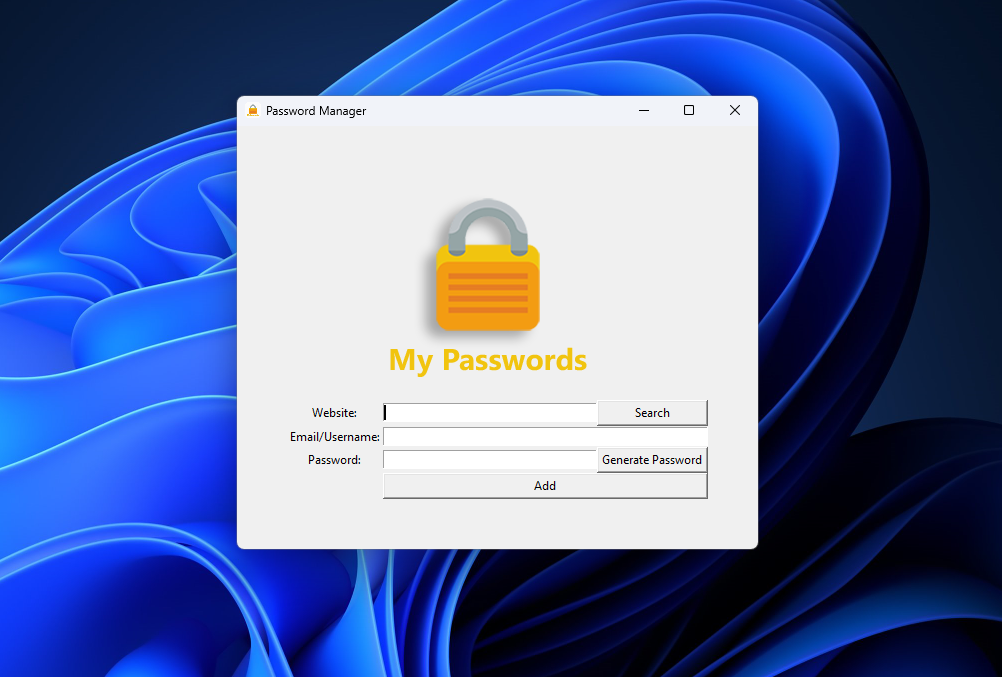
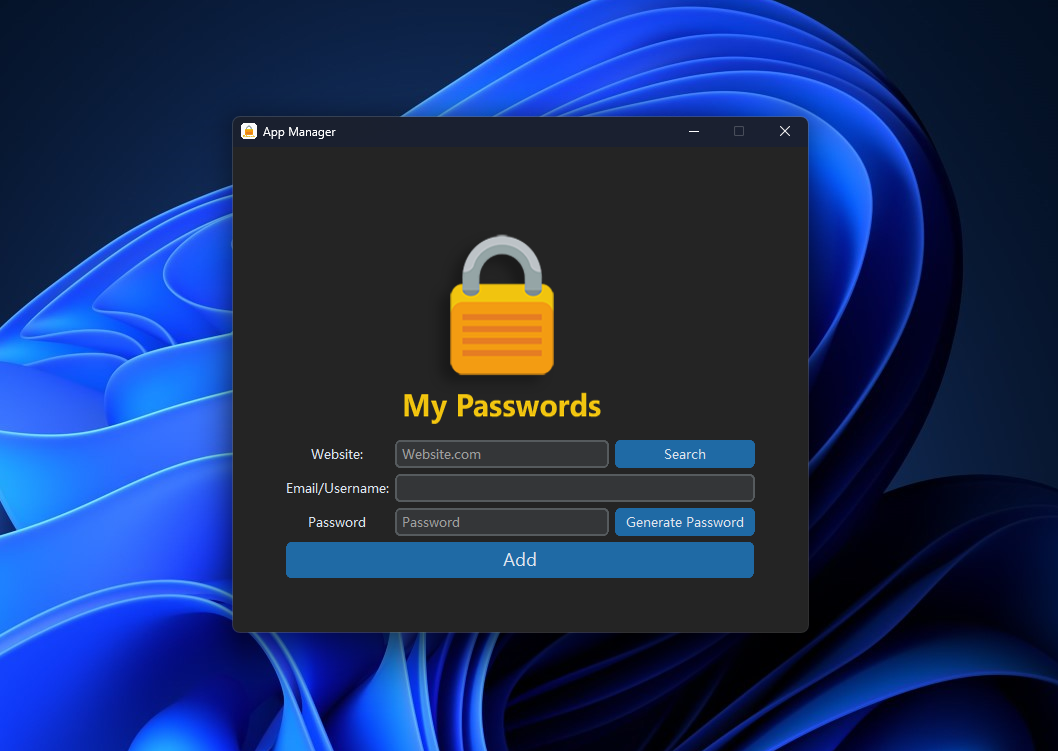
Restrict window resizing and Update README.md

diff --git a/main.py b/main.py
@@ -112,13 +112,14 @@ def save():
                 password_entry.delete(0, END)
 
 
-# ---------------------------- UI S1 SETUP ------------------------------- #
+# ---------------------------- UI SETUP ------------------------------- #
 
 app = customtkinter.CTk()
-# app.geometry("720x480")
 app.title("App Manager")
+app.geometry("575x485 ")
+app.resizable(False, False)
 app.config(padx=50, pady=50)
-
+app.iconbitmap('assets/password_manager_icon.ico')
 
 # -------Center Logo-------
 

diff --git a/README.md b/README.md
@@ -7,13 +7,13 @@
 ## Overview
 
 The Password Manager is a user-friendly Windows application built 
-using Python and the TKinter GUI library. It allows users to store and manage 
+using Python and the TKinter GUI library ([customtkinter](https://customtkinter.tomschimansky.com/)). It allows users to store and manage 
 their passwords, providing a convenient and safe solution for 
 password management without any signups or prerequisites.
 
 ## Features
 
-- Securely store and retrieve passwords for various accounts.
+- Securely store and retrieve passwords for various accounts locally on your computer.
 - Generate strong and random passwords for new accounts.
 - Easy-to-use interface for seamless password management.
 
@@ -67,9 +67,9 @@ If you encounter any issues or have suggestions, please [open an issue](https://
 
 ## Roadmap
 
-- [ ] Add Dark mode.
+- [x] Add Dark mode.
 - [ ] Hashing the passwords locally for better security.
-- [ ] Upgrade to database file.
+- [ ] Upgrade a to database file.
 
 ## Authors
 
